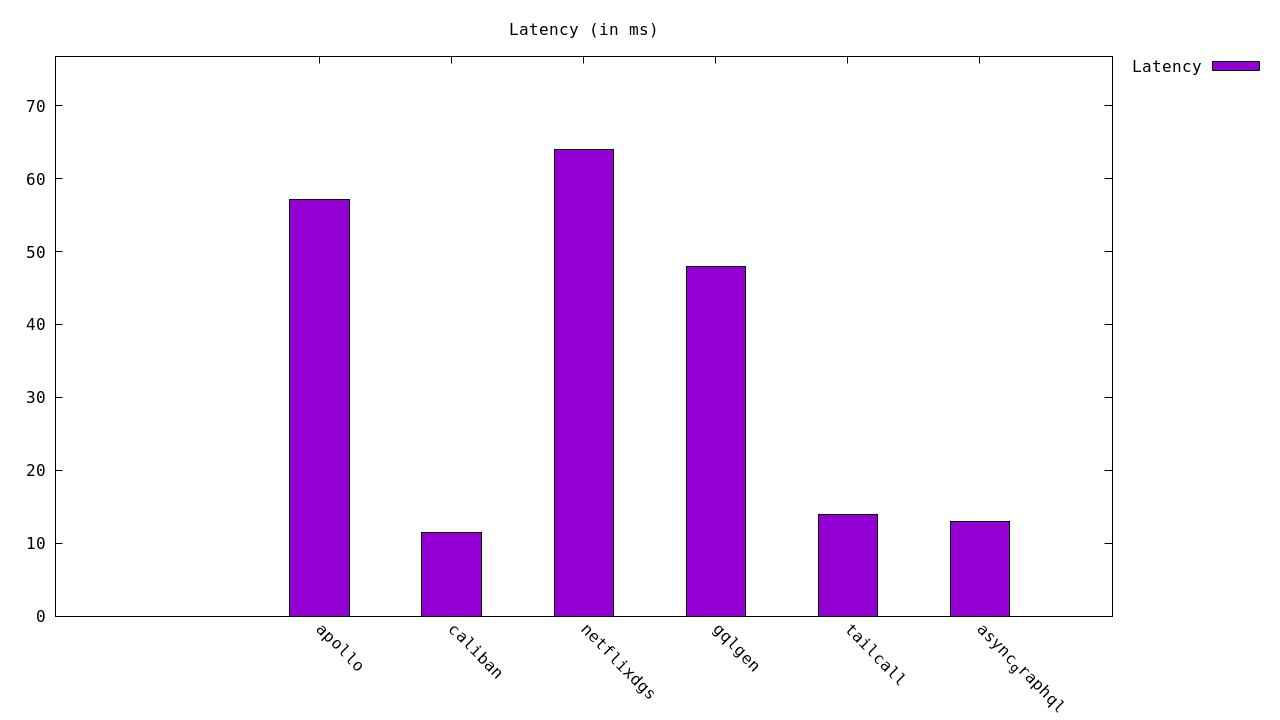
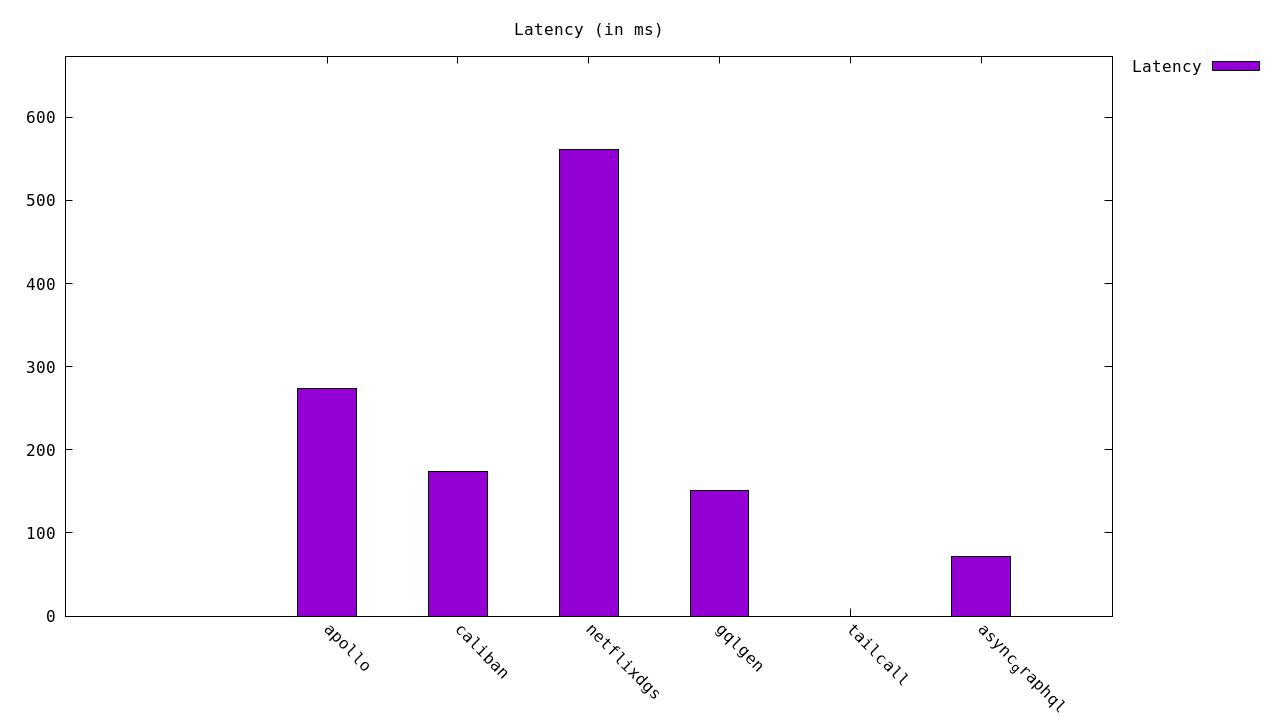
update benchmarks

diff --git a/README.md b/README.md
@@ -48,12 +48,12 @@ Get started with the benchmarks:
 
 | Server | Requests/sec | Latency (ms) |
 |--------:|--------------:|--------------:|
-| [Caliban] | `9,001.06` | `11.49` |
-| [async-graphql] | `7,753.07` | `12.90` |
-| [Tailcall] | `7,131.82` | `13.98` |
-| [Gqlgen] | `2,147.80` | `47.99` |
-| [Apollo GraphQL] | `1,744.69` | `57.15` |
-| [Netflix DGS] | `1,647.22` | `63.95` |
+| [async-graphql] | `1,394.85` | `71.36` |
+| [Gqlgen] | `684.32` | `150.92` |
+| [Caliban] | `581.54` | `174.07` |
+| [Apollo GraphQL] | `374.28` | `273.38` |
+| [Netflix DGS] | `171.40` | `560.92` |
+| [Tailcall] | `0.00` | `0.00` |
 
 <!-- PERFORMANCE_RESULTS_END -->
 

diff --git a/results.md b/results.md
@@ -2,6 +2,11 @@
 
 | Server | Requests/sec | Latency (ms) |
 |--------:|--------------:|--------------:|
-| [async-graphql] | `4,879.25` | `20.51` |
+| [async-graphql] | `1,394.85` | `71.36` |
+| [Gqlgen] | `684.32` | `150.92` |
+| [Caliban] | `581.54` | `174.07` |
+| [Apollo GraphQL] | `374.28` | `273.38` |
+| [Netflix DGS] | `171.40` | `560.92` |
+| [Tailcall] | `0.00` | `0.00` |
 
 <!-- PERFORMANCE_RESULTS_END -->
